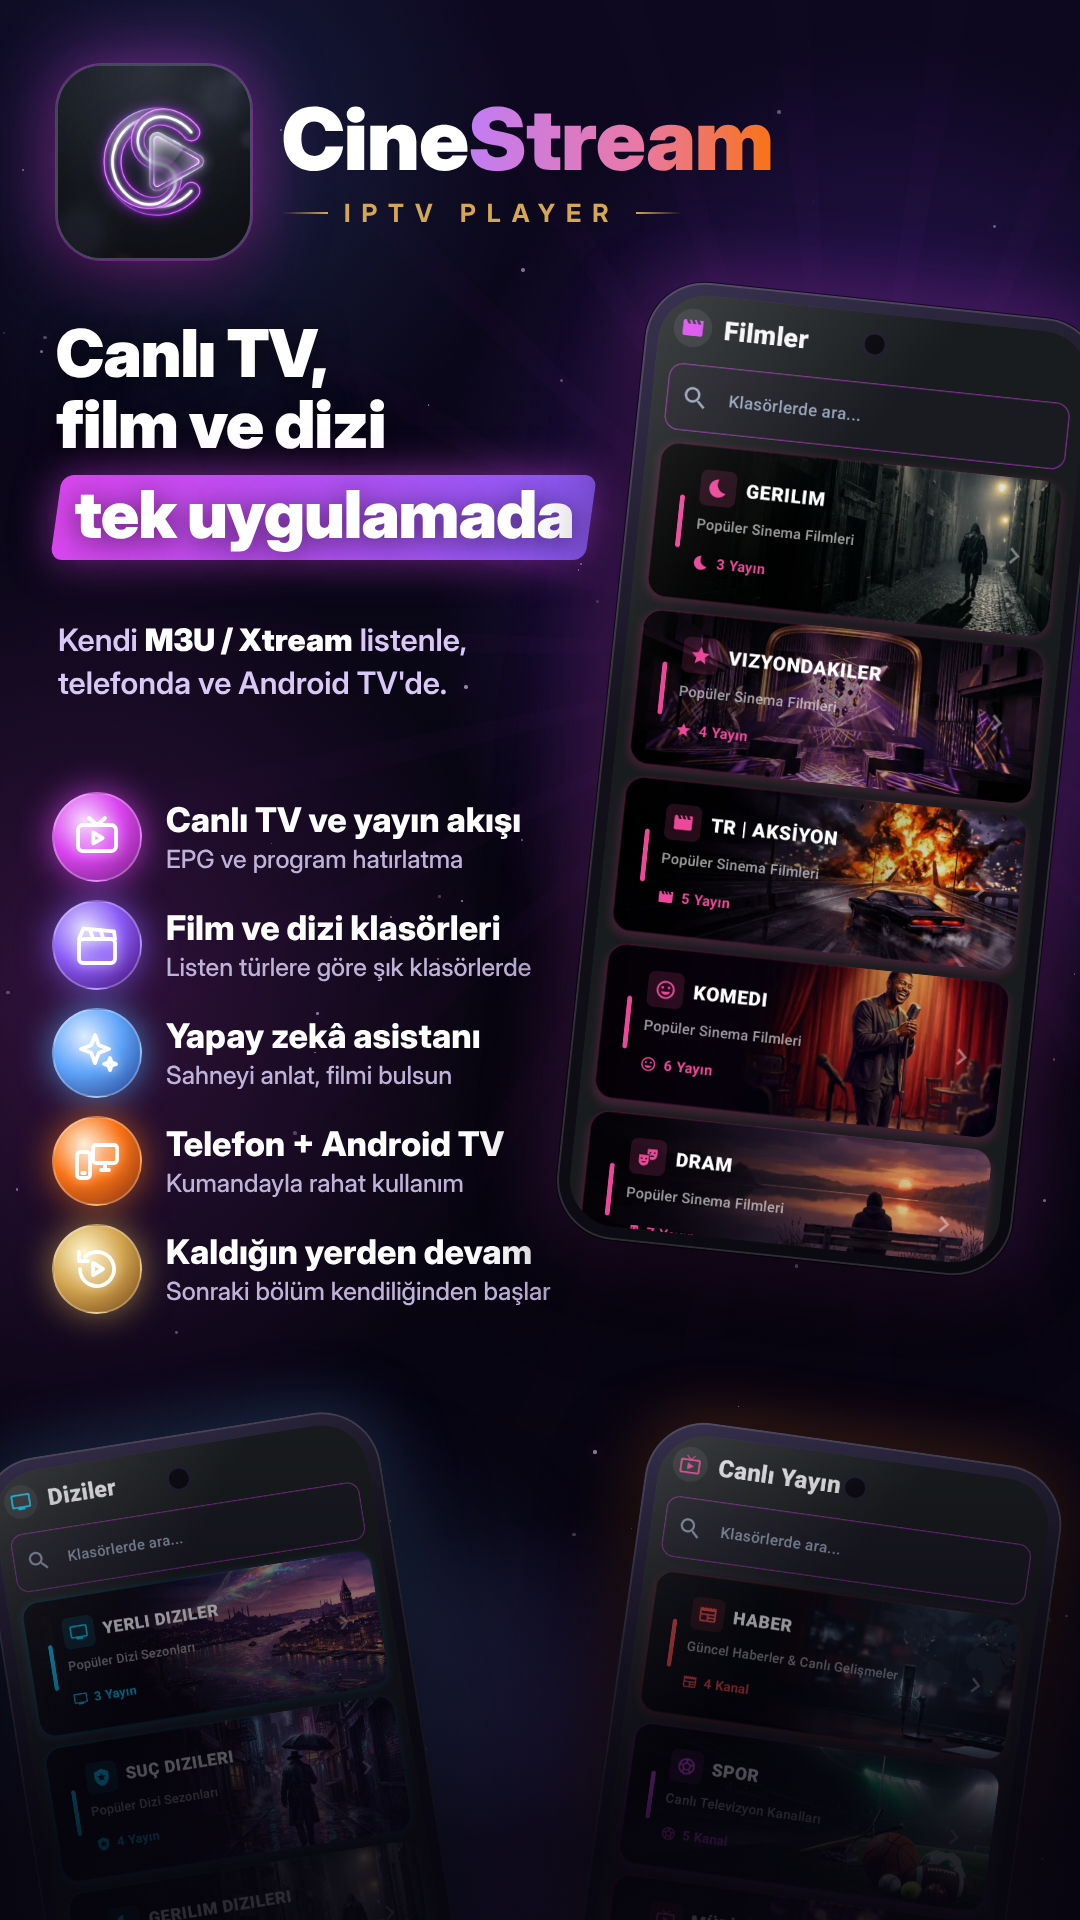
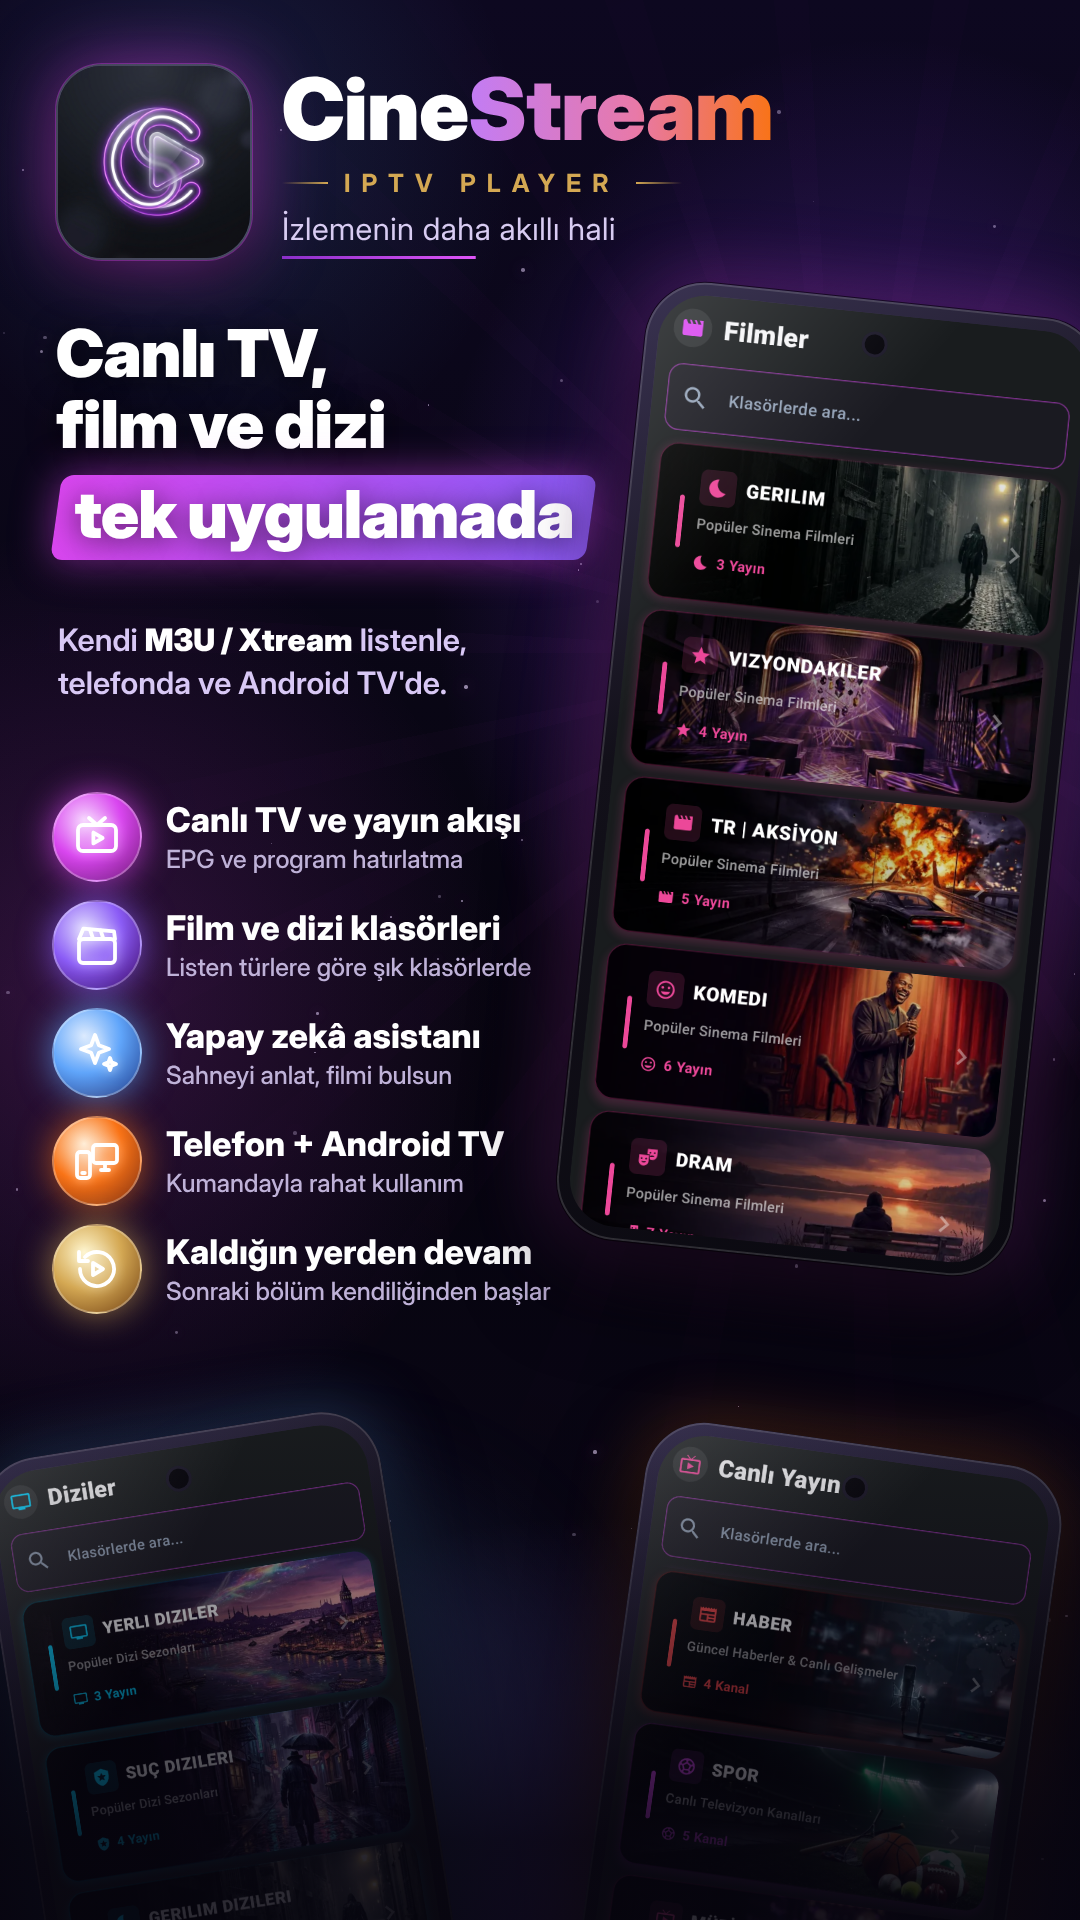
Tanıtım: slogan ("İzlemenin daha akıllı hali") video ve afişlere eklendi
Açılış ekranındaki gibi ince yazı ve altında mor-pembe çizgi. Videoda yazının altında
5. saniyede belirir; çağrı kutusu 5,9 saniyeye kaydı. Afişlerde simge yanındaki ad
bloğunda. Uygulama koduna dokunulmadı.

Claude-Session: https://claude.ai/code/session_01ER33523VoiWUX5yh7Ck2TW

Changed region(s): [[0.2444, 0.0312, 0.7333, 0.125]]

diff --git a/play-store/tanitim/logo-video/anim.html b/play-store/tanitim/logo-video/anim.html
@@ -19,7 +19,7 @@ const D2R=Math.PI/180;
 function mk(w,h){const c=document.createElement('canvas');c.width=w;c.height=h;return c}
 const rgba=(c,a)=>`rgba(${c[0]|0},${c[1]|0},${c[2]|0},${clamp(a)})`;
 
-let DUR=8.0, CTA=null; const T_BURST=2.62;
+let DUR=8.0, CTA=null, SLOGAN='İzlemenin daha akıllı hali'; const T_BURST=2.62;
 const MAG=[217,70,239], PINK=[244,114,182], VIO=[139,92,246], BLUE=[96,165,250], WHITE=[255,255,255], GOLD=[212,168,83], LILAC=[232,180,255];
 
 let W,H,L,CX,CY,HZ,PORT,S;
@@ -35,10 +35,10 @@ const BURST_C=[590,510];
 function LP(u,v){return [CX+(u-512)*L/1024, CY+(v-512)*L/1024]}
 
 async function init(w,h,src,opts={}){
-  W=w;H=h;PORT=H>W;DUR=opts.dur||8.0;CTA=opts.cta||null;
+  W=w;H=h;PORT=H>W;DUR=opts.dur||8.0;CTA=opts.cta||null;if(opts.slogan!==undefined)SLOGAN=opts.slogan;
   const cv=document.getElementById('c');cv.width=W;cv.height=H;ctx=cv.getContext('2d');
   S=Math.min(W,H)/1080;
-  L=PORT?620:600; CX=W/2; CY=PORT?H*0.42:H*0.385; HZ=CY+L/2;
+  L=PORT?620:560; CX=W/2; CY=PORT?H*0.40:H*0.37; HZ=CY+L/2;
   E=mk(W,H);ex=E.getContext('2d');
   B1=mk(W>>1,H>>1);b1=B1.getContext('2d');
   B2=mk(W>>2,H>>2);b2=B2.getContext('2d');
@@ -381,7 +381,7 @@ function render(t){
 function drawText(t,cam){
   if(t<3.95)return;
   tx.setTransform(1,0,0,1,0,0);tx.globalCompositeOperation='source-over';tx.globalAlpha=1;tx.filter='none';tx.clearRect(0,0,W,H);tx.setTransform(...cam);
-  const F=PORT?150:128,base=HZ+F*1.22;
+  const F=PORT?150:120,base=HZ+F*1.22;
   tx.font=`900 ${F}px 'Inter Display'`;tx.textBaseline='alphabetic';
   const word='CineStream',total=tx.measureText(word).width,x0=CX-total/2;
   const xs=[...word].map((_,i)=>x0+tx.measureText(word.slice(0,i)).width);
@@ -397,13 +397,23 @@ function drawText(t,cam){
     const ws=[...tag].map(c=>tx.measureText(c).width),tw=ws.reduce((a,b)=>a+b,0)+gap*(tag.length-1);let x=CX-tw/2;const y=base+F*0.58;
     tx.fillStyle=rgba(GOLD,ta);[...tag].forEach((c,i)=>{tx.fillText(c,x,y);x+=ws[i]+gap});
     const ll=F*0.9*easeOut((t-4.7)/0.7),ly=y-fs*0.36;if(ll>0){tx.fillStyle=rgba(GOLD,ta*0.75);tx.fillRect(CX-tw/2-fs*0.9-ll,ly,ll,1.6*S);tx.fillRect(CX+tw/2+fs*0.9,ly,ll,1.6*S)}}
+  // Slogan (açılış ekranındaki gibi): ince yazı, altında mordan pembeye büyüyen çizgi
+  const sa=smooth(5.0,5.7,t);
+  if(SLOGAN&&sa>0){
+    const fs=F*0.30;tx.font=`400 ${fs}px 'Inter Display'`;const ls=lerp(fs*0.35,fs*0.05,easeOut((t-5.0)/0.9));
+    const cs=[...SLOGAN],ws=cs.map(c=>tx.measureText(c).width),tw=ws.reduce((a,b)=>a+b,0)+ls*(cs.length-1);
+    let x=CX-tw/2;const y=base+F*1.20;tx.fillStyle=`rgba(216,204,242,${sa})`;cs.forEach((c,i)=>{tx.fillText(c,x,y);x+=ws[i]+ls});
+    const uw=Math.min(tw*0.5,F*1.5)*easeOut((t-5.25)/0.8);
+    if(uw>0){const g=tx.createLinearGradient(CX-uw/2,0,CX+uw/2,0);g.addColorStop(0,'#8B2FC9');g.addColorStop(1,'#DF55F7');
+      tx.globalAlpha=sa;tx.fillStyle=g;rrect(tx,CX-uw/2,y+fs*0.42,uw,Math.max(2,fs*0.08),fs*0.04);tx.fill();tx.globalAlpha=1}
+  }
   // Durum paylaşımı için çağrı kutusu (yalnızca dikeyde; yatayda yer yok): "ÇOK YAKINDA / Google Play'de"
-  const cp=easeOut((t-5.4)/0.6);
+  const cp=easeOut((t-5.9)/0.6);
   if(CTA&&PORT&&cp>0){
     const f1=F*0.17,f2=F*0.30,sp=f1*0.32;
     tx.font=`800 ${f1}px 'Inter Display'`;const c1=[...CTA.top],w1s=c1.map(c=>tx.measureText(c).width),w1=w1s.reduce((a,b)=>a+b,0)+sp*(c1.length-1);
     tx.font=`800 ${f2}px 'Inter Display'`;const w2=tx.measureText(CTA.main).width;
-    const bw=Math.max(w1,w2)+F*0.9,bh=f1+f2+F*0.55,cy=base+F*1.62+(1-cp)*F*0.25,bx=CX-bw/2,by=cy-bh/2;
+    const bw=Math.max(w1,w2)+F*0.9,bh=f1+f2+F*0.55,cy=base+F*2.04+(1-cp)*F*0.25,bx=CX-bw/2,by=cy-bh/2;
     tx.globalAlpha=cp;rrect(tx,bx,by,bw,bh,bh*0.28);tx.fillStyle='rgba(22,12,44,0.82)';tx.fill();
     const bg=tx.createLinearGradient(bx,0,bx+bw,0);bg.addColorStop(0,'#D946EF');bg.addColorStop(1,'#8B5CF6');tx.strokeStyle=bg;tx.lineWidth=2.6*S;tx.stroke();
     tx.font=`800 ${f1}px 'Inter Display'`;tx.fillStyle=rgba(GOLD,1);let x=CX-w1/2;const y1=by+F*0.25+f1*0.8;c1.forEach((c,i)=>{tx.fillText(c,x,y1);x+=w1s[i]+sp});

diff --git a/play-store/tanitim/afis/afis-forum.html b/play-store/tanitim/afis/afis-forum.html
@@ -18,7 +18,7 @@
   .dot{position:absolute;border-radius:50%;background:#e9d5ff}
   .glowblob{position:absolute;border-radius:50%;filter:blur(70px)}
 
-  header{position:absolute;left:96px;top:84px;display:flex;align-items:center;gap:30px}
+  header{position:absolute;left:96px;top:62px;display:flex;align-items:center;gap:30px}
   .icon{width:170px;height:170px;border-radius:40px;border:2px solid rgba(255,255,255,.22);
     box-shadow:0 0 0 1px rgba(217,70,239,.35),0 0 70px rgba(217,70,239,.55),0 18px 40px rgba(0,0,0,.6)}
   .word{font-weight:900;font-size:92px;letter-spacing:-1px;line-height:1}
@@ -27,6 +27,8 @@
   .tag::before,.tag::after{content:'';height:2px;width:46px;background:linear-gradient(90deg,transparent,#D4A853)}
   .tag::after{background:linear-gradient(90deg,#D4A853,transparent)}
 
+  .slogan{display:inline-block;margin-top:12px;padding-bottom:12px;font-size:32px;font-weight:400;color:#d8ccf2;letter-spacing:.5px;
+    background:linear-gradient(90deg,#8B2FC9,#DF55F7) left bottom/58% 3px no-repeat}
   h1{position:absolute;left:96px;top:318px;font-weight:900;font-size:76px;line-height:1.08;letter-spacing:-1px;text-shadow:0 4px 30px rgba(0,0,0,.6)}
   h1 .hl{display:inline-block;margin-top:12px;padding:4px 20px 10px;transform:skewX(-8deg);border-radius:12px;
     background:linear-gradient(90deg,#D946EF,#8B5CF6);box-shadow:0 0 40px rgba(217,70,239,.55)}
@@ -70,7 +72,7 @@
 
 <header>
   <img class="icon" src="logo.jpg" alt="">
-  <div><div class="word">Cine<span class="grad">Stream</span></div><div class="tag">IPTV PLAYER</div></div>
+  <div><div class="word">Cine<span class="grad">Stream</span></div><div class="tag">IPTV PLAYER</div><div class="slogan">İzlemenin daha akıllı hali</div></div>
 </header>
 
 <h1>Canlı TV, film ve dizi<br><span class="hl"><span>tek uygulamada</span></span></h1>

diff --git a/play-store/tanitim/afis/afis-durum.html b/play-store/tanitim/afis/afis-durum.html
@@ -26,6 +26,8 @@
   .tag::before,.tag::after{content:'';height:2px;width:46px;background:linear-gradient(90deg,transparent,#D4A853)}
   .tag::after{background:linear-gradient(90deg,#D4A853,transparent)}
 
+  .slogan{display:inline-block;margin-top:12px;padding-bottom:12px;font-size:31px;font-weight:400;color:#d8ccf2;letter-spacing:.5px;
+    background:linear-gradient(90deg,#8B2FC9,#DF55F7) left bottom/58% 3px no-repeat}
   h1{position:absolute;left:56px;top:400px;width:600px;font-weight:900;font-size:66px;line-height:1.08;letter-spacing:-1px;
     text-shadow:0 4px 30px rgba(0,0,0,.6)}
   h1 .hl{display:inline-block;margin-top:14px;padding:4px 18px 10px;transform:skewX(-8deg);border-radius:12px;
@@ -73,7 +75,7 @@
 
 <header>
   <img class="icon" src="logo.jpg" alt="">
-  <div><div class="word">Cine<span class="grad">Stream</span></div><div class="tag">IPTV PLAYER</div></div>
+  <div><div class="word">Cine<span class="grad">Stream</span></div><div class="tag">IPTV PLAYER</div><div class="slogan">İzlemenin daha akıllı hali</div></div>
 </header>
 
 <h1>Canlı TV,<br>film ve dizi<br><span class="hl"><span>tek uygulamada</span></span></h1>

diff --git a/play-store/tanitim/afis/afis.html b/play-store/tanitim/afis/afis.html
@@ -26,6 +26,8 @@
   .tag::before,.tag::after{content:'';height:2px;width:46px;background:linear-gradient(90deg,transparent,#D4A853)}
   .tag::after{background:linear-gradient(90deg,#D4A853,transparent)}
 
+  .slogan{display:inline-block;margin-top:12px;padding-bottom:12px;font-size:31px;font-weight:400;color:#d8ccf2;letter-spacing:.5px;
+    background:linear-gradient(90deg,#8B2FC9,#DF55F7) left bottom/58% 3px no-repeat}
   h1{position:absolute;left:56px;top:318px;width:600px;font-weight:900;font-size:66px;line-height:1.08;letter-spacing:-1px;
     text-shadow:0 4px 30px rgba(0,0,0,.6)}
   h1 .hl{display:inline-block;margin-top:14px;padding:4px 18px 10px;transform:skewX(-8deg);border-radius:12px;
@@ -66,7 +68,7 @@
 
 <header>
   <img class="icon" src="logo.jpg" alt="">
-  <div><div class="word">Cine<span class="grad">Stream</span></div><div class="tag">IPTV PLAYER</div></div>
+  <div><div class="word">Cine<span class="grad">Stream</span></div><div class="tag">IPTV PLAYER</div><div class="slogan">İzlemenin daha akıllı hali</div></div>
 </header>
 
 <h1>Canlı TV,<br>film ve dizi<br><span class="hl"><span>tek uygulamada</span></span></h1>

diff --git a/play-store/tanitim/logo-video/synth.py b/play-store/tanitim/logo-video/synth.py
@@ -1,6 +1,6 @@
 """CineStream logo açılışının sesi: tamamen burada üretilir (hazır müzik ya da ses dosyası yok, telif sorunu yok).
 Zamanlama anim.html ile aynıdır: şeritler 0-1.8 sn, lazerler 0.95/1.10, logo çizimi 1.55-2.5, patlama 2.62,
-çerçeve 3.12-3.87, yazı 4.0, parlama 4.85, çağrı kutusu 5.4.
+çerçeve 3.12-3.87, yazı 4.0, parlama 4.85, slogan 5.0, çağrı kutusu 5.9.
 Kullanım: python3 synth.py cikis.wav [süre=8] [cta]
 """
 import math
@@ -181,9 +181,10 @@ svf_noise(4.85, 5.45, 5000, 9000, 0.06, -0.6, 0.6, q=0.5, send=0.6)
 for i in rng(4.85, 5.45):
     u = (i / SR - 4.85) / 0.6
     put(i, 0.015 * math.sin(math.pi * u) * math.sin(TAU * (2000 + 2000 * u) * (i / SR)), -0.5 + u, 0.6)
+svf_noise(5.0, 5.9, 3000, 6000, 0.04, 0.4, -0.4, q=0.5, send=0.7)  # slogan belirirken hafif ışıltı
 if CTA:  # çağrı kutusu belirirken iki kısa zil
-    bell(5.45, 1318.5, 0.08, -0.15)
-    bell(5.60, 1975.5, 0.06, 0.15)
+    bell(5.95, 1318.5, 0.08, -0.15)
+    bell(6.10, 1975.5, 0.06, 0.15)
 
 
 # 9) Basit yankı (Schroeder): 4 tarak + 2 tüm geçiren süzgeç

diff --git a/play-store/tanitim/README.md b/play-store/tanitim/README.md
@@ -5,7 +5,8 @@ Kaynaktan üretilir; ara dosyalar (kareler, ekran görüntüleri, ses) depoya gi
 ## Logo açılış videosu (`logo-video/`)
 
 Neon ışık şeritleri ve lazerler gelir, ışık CineStream logosunu çizer, kıvılcım patlaması olur, cam simge
-çerçevesi belirir, "CineStream · IPTV PLAYER" yazısı çıkar. 8 saniye, sesli.
+çerçevesi belirir, "CineStream · IPTV PLAYER" yazısı ve altında slogan ("İzlemenin daha akıllı hali", açılış
+ekranındaki gibi mor-pembe çizgiyle) çıkar. 8 saniye, sesli.
 
 - `anim.html`: animasyon (her kare zamana göre çizilir; aynı kare her seferinde aynı çıkar).
 - `synth.py`: ses tamamen burada üretilir. Hazır müzik ya da ses dosyası kullanılmadı, telif sorunu yok.
@@ -17,7 +18,8 @@ Neon ışık şeritleri ve lazerler gelir, ışık CineStream logosunu çizer, k
   - `CineStream-logo-640.gif` / `-480.gif`: forumlar için (MP4 yüklenemeyen yerlerde GIF oynar).
 
 Zamanlama: şeritler 0–1,8 sn · lazerler 0,95/1,10 · logo çizimi 1,55–2,5 · patlama 2,62 · çerçeve 3,1–3,9 ·
-yazı 4,0 · parlama 4,85. Görüntü ile ses aynı zamanları kullanır; biri değişirse öbürü de değişmeli.
+yazı 4,0 · parlama 4,85 · slogan 5,0 · çağrı kutusu 5,9. Görüntü ile ses aynı zamanları kullanır; biri
+değişirse öbürü de değişmeli. Slogan uygulamadaki `intro_tagline` metnidir; o değişirse burada da değişmeli.
 
 Tek kareye bakmak için: `node render.js 1920 1080 onizleme 30 2.2,6.0`
 (çağrı kutusuyla: `DUR=10 CTA_TOP="ÇOK YAKINDA" CTA_MAIN="Google Play'de" node render.js 1080 1920 onizleme 30 6.2`)
